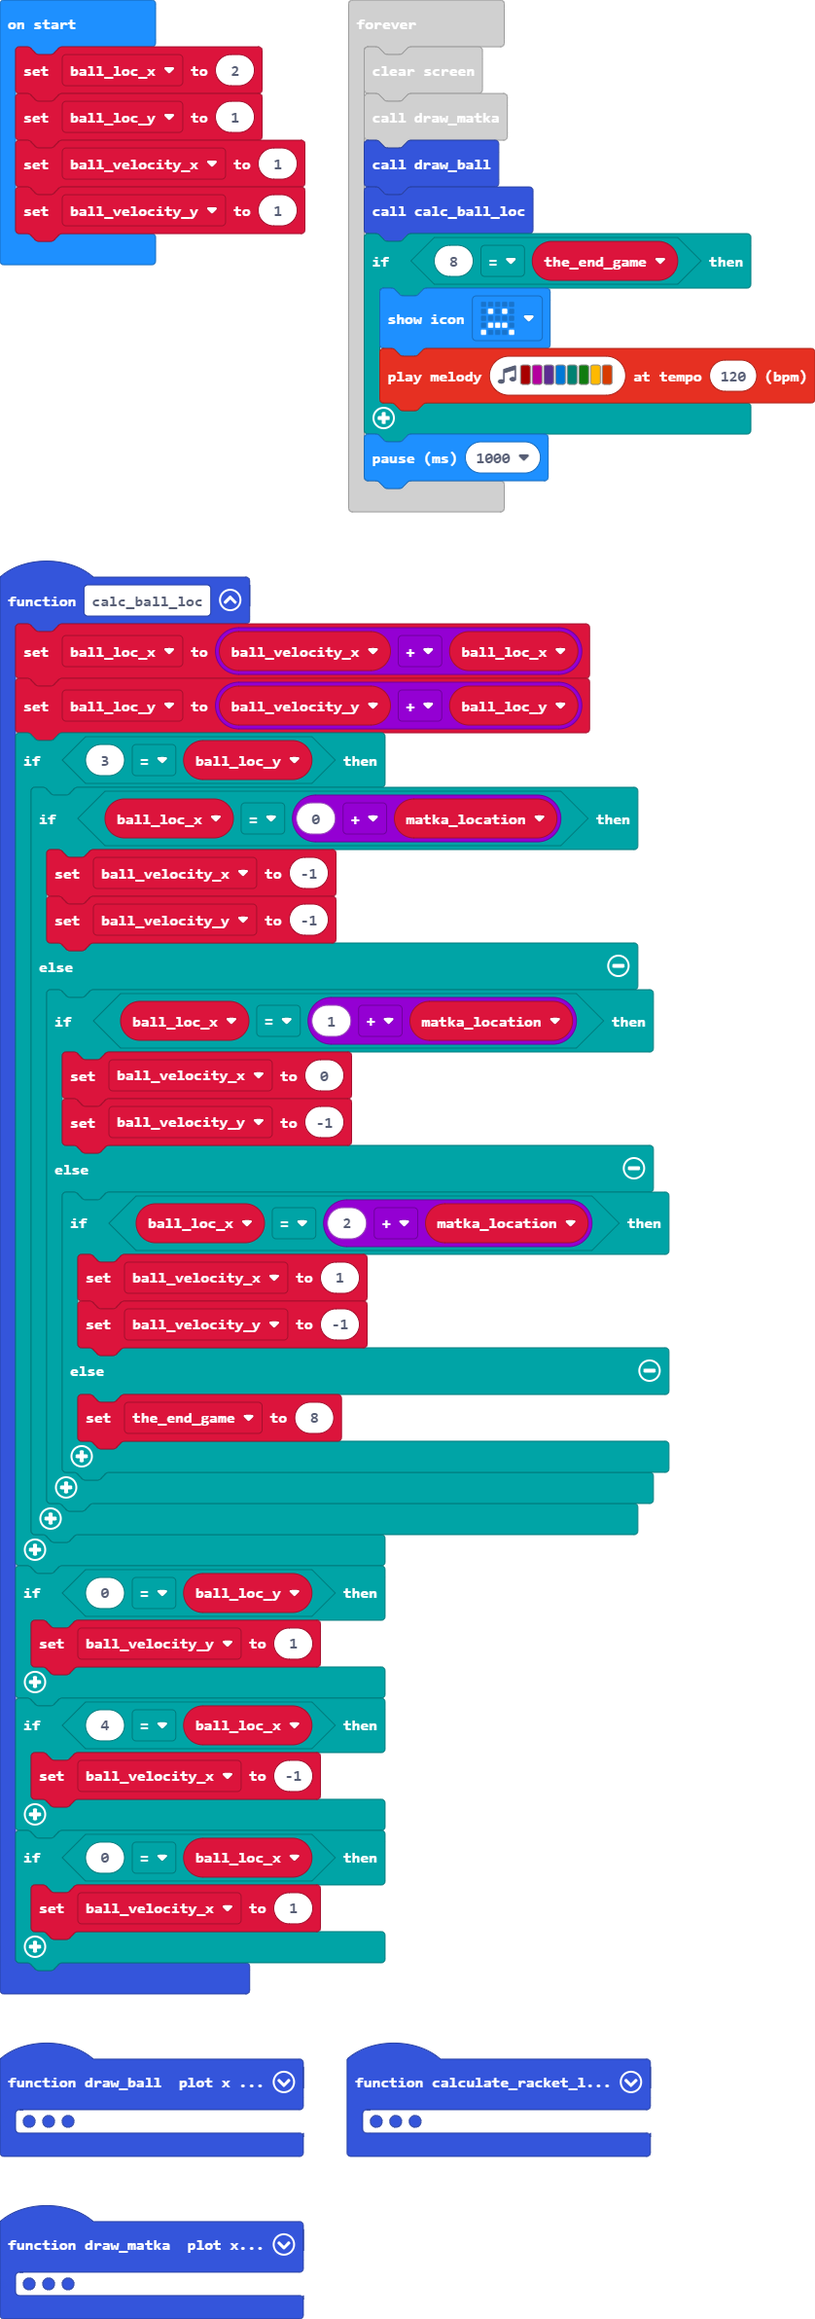
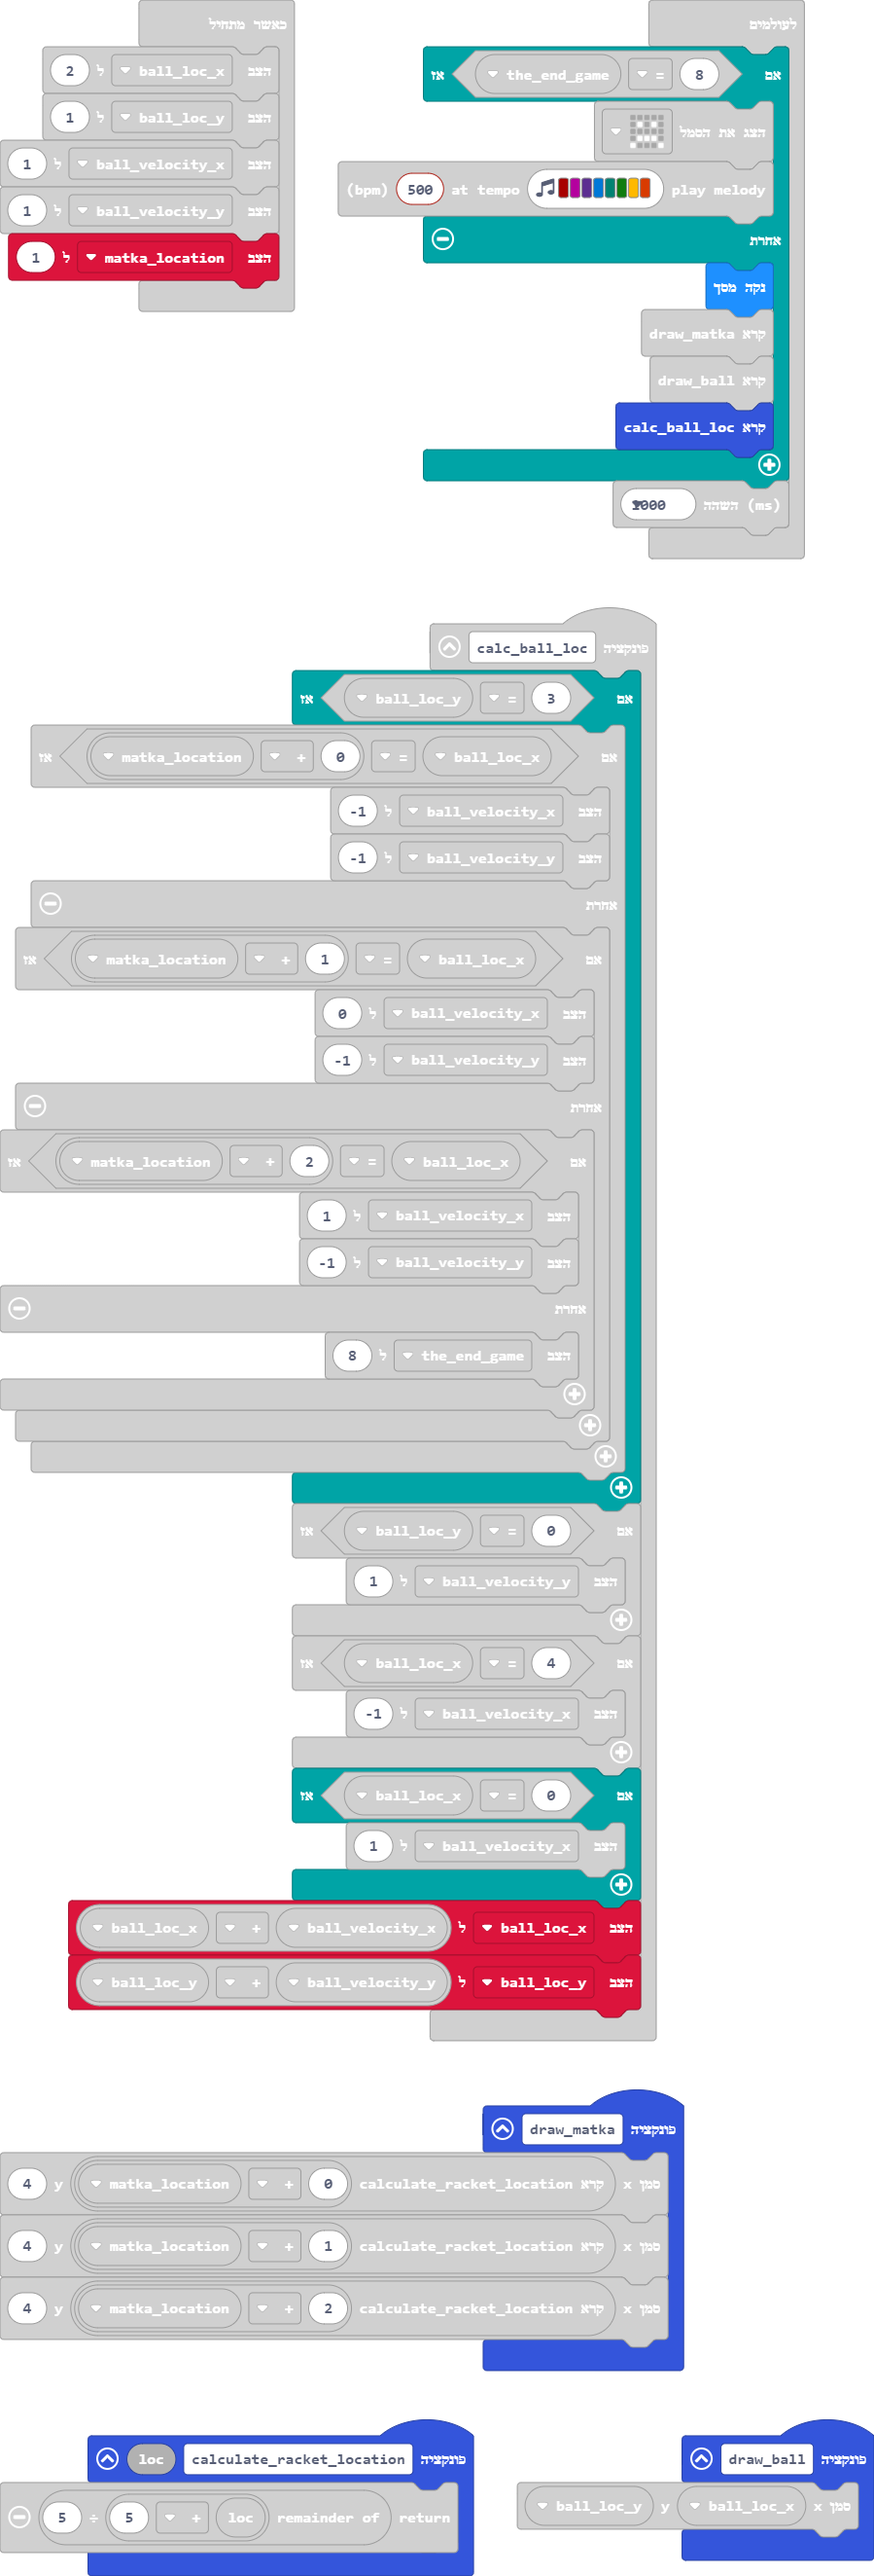
bug fix: update calc ball location

diff --git a/main.ts b/main.ts
@@ -16,8 +16,6 @@ input.onButtonPressed(Button.B, function () {
     matka_location = calculate_racket_location(1 + matka_location)
 })
 function calc_ball_loc () {
-    ball_loc_x = ball_velocity_x + ball_loc_x
-    ball_loc_y = ball_velocity_y + ball_loc_y
     if (3 == ball_loc_y) {
         if (ball_loc_x == 0 + matka_location) {
             ball_velocity_x = -1
@@ -45,6 +43,8 @@ function calc_ball_loc () {
     if (0 == ball_loc_x) {
         ball_velocity_x = 1
     }
+    ball_loc_x = ball_velocity_x + ball_loc_x
+    ball_loc_y = ball_velocity_y + ball_loc_y
 }
 let the_end_game = 0
 let matka_location = 0
@@ -56,14 +56,16 @@ ball_loc_x = 2
 ball_loc_y = 1
 ball_velocity_x = 1
 ball_velocity_y = 1
+matka_location = 1
 basic.forever(function () {
-    basic.clearScreen()
-    draw_matka()
-    draw_ball()
-    calc_ball_loc()
     if (8 == the_end_game) {
         basic.showIcon(IconNames.Sad)
-        music.playMelody("C5 C D E F G A B ", 120)
+        music.playMelody("C5 C D E F G A B ", 500)
+    } else {
+        basic.clearScreen()
+        draw_matka()
+        draw_ball()
+        calc_ball_loc()
     }
     basic.pause(1000)
 })

diff --git a/main.py b/main.py
@@ -19,25 +19,36 @@ def on_button_pressed_b():
 input.on_button_pressed(Button.B, on_button_pressed_b)
 
 def calc_ball_loc():
-    global ball_loc_x, ball_loc_y, ball_velocity_y, ball_velocity_x
+    global ball_loc_x, ball_loc_y, ball_velocity_x, ball_velocity_y, the_end_game
     ball_loc_x = ball_velocity_x + ball_loc_x
     ball_loc_y = ball_velocity_y + ball_loc_y
     if 3 == ball_loc_y:
-        if matka_location:
-            pass
-        ball_velocity_y = -1
+        if ball_loc_x == 0 + matka_location:
+            ball_velocity_x = -1
+            ball_velocity_y = -1
+        else:
+            if ball_loc_x == 1 + matka_location:
+                ball_velocity_x = 0
+                ball_velocity_y = -1
+            else:
+                if ball_loc_x == 2 + matka_location:
+                    ball_velocity_x = 1
+                    ball_velocity_y = -1
+                else:
+                    the_end_game = 8
     if 0 == ball_loc_y:
         ball_velocity_y = 1
     if 4 == ball_loc_x:
         ball_velocity_x = -1
     if 0 == ball_loc_x:
         ball_velocity_x = 1
+the_end_game = 0
 matka_location = 0
 ball_velocity_y = 0
 ball_velocity_x = 0
 ball_loc_y = 0
 ball_loc_x = 0
-ball_loc_x = 2
+ball_loc_x = 1
 ball_loc_y = 1
 ball_velocity_x = 1
 ball_velocity_y = 1
@@ -47,5 +58,8 @@ def on_forever():
     draw_matka()
     draw_ball()
     calc_ball_loc()
-    basic.pause(500)
+    if 8 == the_end_game:
+        basic.show_icon(IconNames.SAD)
+        music.play_melody("C5 C D E F G A B ", 120)
+    basic.pause(1000)
 basic.forever(on_forever)
